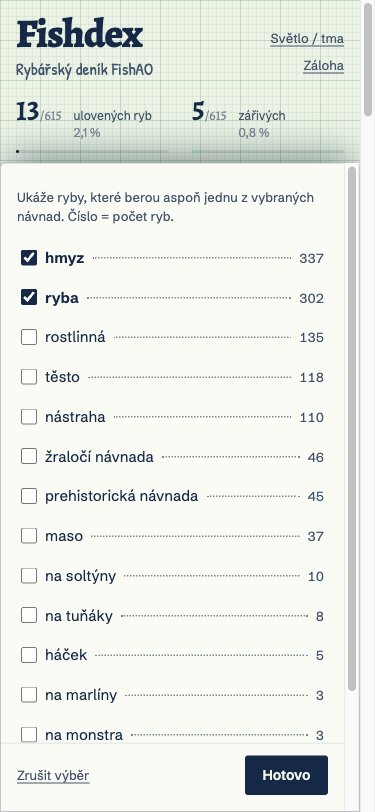
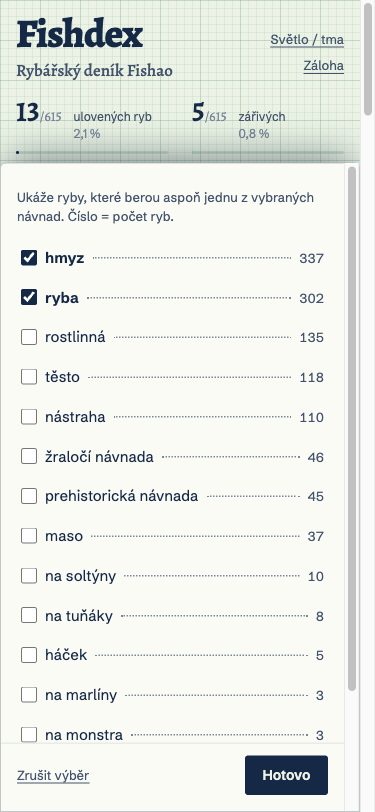
Prototype A: drop handwritten font, Alegreya italic for notes
Font pairing settled: Alegreya + Schibsted Grotesk. Removes alternate
pairings and their screenshots; refreshes the screenshot set.

diff --git a/prototypes/a-denik/style.css b/prototypes/a-denik/style.css
@@ -24,10 +24,8 @@
 
   --s1: 4px; --s2: 8px; --s3: 12px; --s4: 16px; --s5: 24px; --s6: 32px; --s7: 48px; --s8: 64px; --s9: 96px;
   --text: "Schibsted Grotesk", "Avenir Next", "Segoe UI", sans-serif;
-  /* font pairing 1 (default): Alegreya + Patrick Hand */
   --display: "Alegreya", "Iowan Old Style", Georgia, serif;
-  --title-w: 800; --name-w: 700; --name-scale: 1;
-  --hand: "Patrick Hand", "Bradley Hand", cursive; --hand-scale: 1.05;
+  --title-w: 800; --name-w: 700;
 }
 @media (prefers-color-scheme: dark) {
   :root:not([data-theme="light"]) {
@@ -148,7 +146,7 @@ button { cursor: pointer; }
 .index { grid-area: index; align-self: start; }
 .index-title { margin: 0 0 var(--s3); font: 500 22px/1 var(--display); font-style: italic; }
 .areas { list-style: none; margin: 0; padding: 0; }
-.areas .kind { margin: var(--s4) 0 var(--s1); font: 400 calc(16px * var(--hand-scale))/1 var(--hand); color: var(--ink-faint); }
+.areas .kind { margin: var(--s4) 0 var(--s1); font: italic 400 16px/1 var(--display); color: var(--ink-faint); }
 .areas button {
   display: grid; grid-template-columns: 1fr auto; align-items: baseline; width: 100%;
   padding: 5px var(--s2) 6px; border: 0; background: none; text-align: left; border-radius: 3px;
@@ -166,7 +164,7 @@ button { cursor: pointer; }
 .hint {
   display: flex; flex-wrap: wrap; align-items: center; gap: var(--s2) var(--s5);
   max-width: 640px; margin: 0 0 var(--s5); padding: var(--s3) var(--s4);
-  font: 400 calc(16px * var(--hand-scale))/1.35 var(--hand); color: var(--ink);
+  font: italic 400 16px/1.35 var(--display); color: var(--ink);
   background: var(--slip);
   border-left: 3px solid var(--stamp);
   transform: rotate(-0.6deg);
@@ -191,7 +189,7 @@ button { cursor: pointer; }
 .search input::placeholder { color: var(--ink-faint); font-style: italic; }
 .search:focus-within { border-color: var(--focus); }
 .filter-row { display: flex; flex-wrap: wrap; align-items: center; gap: var(--s2); }
-.filter-label { font: 400 calc(16px * var(--hand-scale))/1 var(--hand); color: var(--ink-soft); min-width: 64px; }
+.filter-label { font: italic 400 16px/1 var(--display); color: var(--ink-soft); min-width: 64px; }
 .chip {
   border: 1.5px solid var(--ink-faint); background: transparent; color: var(--ink);
   border-radius: 999px; padding: 3px var(--s3); font-size: 14px; line-height: 1.3;
@@ -273,14 +271,14 @@ select {
 }
 
 .card-name {
-  margin: 0; font: var(--name-w) calc(18px * var(--name-scale))/1.12 var(--display);
+  margin: 0; font: var(--name-w) 18px/1.12 var(--display);
   text-wrap: balance; overflow-wrap: anywhere;
 }
 .card-en { margin: 2px 0 var(--s2); font-size: 13px; color: var(--ink-soft); overflow-wrap: anywhere; }
 .card-meta { display: flex; justify-content: space-between; gap: var(--s2); margin: 0; font-size: 13px; font-variant-numeric: tabular-nums; }
 .len { color: var(--ink-soft); white-space: nowrap; }
 .card-where { margin: 2px 0 0; font-size: 13px; color: var(--ink-soft); }
-.note { font: 400 calc(15px * var(--hand-scale))/1 var(--hand); color: var(--ink-soft); }
+.note { font: italic 400 15px/1 var(--display); color: var(--ink-soft); }
 .more { font-size: 12px; color: var(--ink-faint); }
 
 .stamp {
@@ -316,7 +314,7 @@ select {
 .card-open {
   position: absolute; right: var(--s2); bottom: var(--s2); z-index: 2;
   border: 0; background: none; padding: var(--s1) var(--s2);
-  font: 400 calc(16px * var(--hand-scale))/1 var(--hand); color: var(--ink-soft);
+  font: italic 400 16px/1 var(--display); color: var(--ink-soft);
   text-decoration: underline; text-decoration-style: wavy; text-decoration-thickness: 1px; text-underline-offset: 4px;
 }
 .card-open:hover { color: var(--ink); }
@@ -348,7 +346,7 @@ select {
 .sheet-rarity .stars { font-size: 16px; }
 .sheet h2 {
   margin: 0; padding-right: var(--s7);
-  font: var(--name-w) calc(38px * var(--name-scale))/1.02 var(--display);
+  font: var(--name-w) 38px/1.02 var(--display);
   text-wrap: balance;
 }
 .sheet-en { margin: var(--s2) 0 0; color: var(--ink-soft); font-size: 16px; }
@@ -377,7 +375,7 @@ select {
 .toggle[aria-pressed="true"] .box::after { content: "✓"; font-size: 14px; line-height: 1; }
 .toggle.glow[aria-pressed="true"] { background: var(--night); color: var(--glow); border-color: var(--night); box-shadow: inset 0 0 0 1px var(--glow-soft), 0 0 10px -2px var(--glow-soft); }
 .facts { display: grid; grid-template-columns: 96px 1fr; gap: var(--s3) var(--s4); margin: 0; border-top: 1px solid color-mix(in oklch, var(--ink) 20%, transparent); padding-top: var(--s4); }
-.facts dt { font: 400 calc(17px * var(--hand-scale))/1.25 var(--hand); color: var(--ink-soft); }
+.facts dt { font: italic 400 17px/1.25 var(--display); color: var(--ink-soft); }
 .facts dd { margin: 0; font-size: 15px; }
 .facts .unknown { color: var(--ink-faint); font-style: italic; }
 .untranslated { font-style: italic; }
@@ -461,7 +459,7 @@ select {
 .states-wrap { margin-top: var(--s8); padding-top: var(--s5); border-top: 2px solid var(--ink); }
 .states { display: grid; grid-template-columns: repeat(auto-fill, minmax(176px, 1fr)); gap: var(--s5) var(--s4); }
 .state { margin: 0; display: grid; grid-template-rows: auto 1fr; gap: var(--s3); }
-.state figcaption { font: 400 calc(16px * var(--hand-scale))/1 var(--hand); color: var(--ink-soft); }
+.state figcaption { font: italic 400 16px/1 var(--display); color: var(--ink-soft); }
 .card.is-hover { border-color: var(--ink); }
 .card.is-focus .card-hit { outline: 2.5px solid var(--focus); outline-offset: 3px; }
 .card.is-pressing .card-glow { animation: charge .5s linear forwards; }
@@ -479,18 +477,7 @@ select {
 :root[data-theme="dark"] .card[data-caught="false"] .card-art img { mix-blend-mode: normal; filter: grayscale(0.7) brightness(1.1); opacity: 0.42; }
 @media (prefers-color-scheme: dark) { :root:not([data-theme="light"]) .card[data-caught="false"] .card-art img { mix-blend-mode: normal; filter: grayscale(0.7) brightness(1.1); opacity: 0.42; } }
 
-/* ---------- font pairings (?font=2 / ?font=3) ---------- */
 html { font-synthesis-weight: none; }
-:root[data-font="2"] {
-  --display: "Instrument Serif", Georgia, serif;
-  --title-w: 400; --name-w: 400; --name-scale: 1.18;
-  --hand: "Caveat", cursive; --hand-scale: 1.22;
-}
-:root[data-font="3"] {
-  --display: "Young Serif", Georgia, serif;
-  --title-w: 400; --name-w: 400; --name-scale: 0.94;
-  --hand: "Shantell Sans", cursive; --hand-scale: 0.86;
-}
 
 /* ---------- bait picker ---------- */
 .filter-row--bait { position: relative; }
@@ -539,7 +526,7 @@ html { font-synthesis-weight: none; }
 .card-bred:hover { color: var(--ink); border-color: var(--ink-faint); }
 .card-bred[aria-pressed="true"] { background: var(--ink); color: var(--paper); border-color: var(--ink); }
 .card-bred[aria-pressed="true"] .pond { opacity: 1; }
-.bred-note { margin: var(--s1) 0 0; font: 400 calc(15px * var(--hand-scale))/1.1 var(--hand); color: var(--ink); }
+.bred-note { margin: var(--s1) 0 0; font: italic 400 15px/1.1 var(--display); color: var(--ink); }
 .bred-note::before { content: "✓ "; }
 .toggle.bred { grid-column: 1 / -1; }
 .area-bred { grid-column: 1 / -1; margin-top: 3px; font-size: 12px; color: var(--ink-soft); }

diff --git a/prototypes/a-denik/index.html b/prototypes/a-denik/index.html
@@ -6,7 +6,7 @@
 <title>Fishdex · prototyp A, terénní deník</title>
 <link rel="preconnect" href="https://fonts.googleapis.com">
 <link rel="preconnect" href="https://fonts.gstatic.com" crossorigin>
-<link href="https://fonts.googleapis.com/css2?family=Alegreya:ital,wght@0,400..900;1,400..900&family=Patrick+Hand&family=Instrument+Serif:ital@0;1&family=Caveat:wght@400..700&family=Young+Serif&family=Shantell+Sans:wght@300..800&family=Schibsted+Grotesk:wght@400..800&display=swap" rel="stylesheet">
+<link href="https://fonts.googleapis.com/css2?family=Alegreya:ital,wght@0,400..900;1,400..900&family=Schibsted+Grotesk:wght@400..800&display=swap" rel="stylesheet">
 <link rel="stylesheet" href="style.css">
 </head>
 <body>

diff --git a/prototypes/a-denik/app.js b/prototypes/a-denik/app.js
@@ -145,9 +145,6 @@ function onFilters(filters) {
   if (area.value !== filters.area) area.value = filters.area;
 }
 
-const font = new URLSearchParams(location.search).get('font');
-if (font) document.documentElement.dataset.font = font;
-
 createApp({
   renderCard, renderEmpty, renderDetail, renderProgress, setup, onFilters,
   countLabel: (n, total) => n === total ? `${n} ryb` : `${n} z ${total}`,

diff --git a/prototypes/DECISIONS.md b/prototypes/DECISIONS.md
@@ -19,12 +19,9 @@ Varianta B (`prototypes/b-kabinet/`) je jen archiv, dál se neudržuje.
 - **Obsah deníku začíná položkou „Všechny oblasti“** (výchozí, celkový progres X/615),
   pod ní oblasti, turnaje a Backyard. Na mobilu je to první volba selectu oblastí.
 - **Podtitul** „Rybářský deník Fishao“ je ve fontu názvů ryb (ne ručně psaný).
-- **Fonty:** Fraunces a Kalam se mění. Kandidáti (přepínač `?font=1|2|3`):
-  1. Alegreya + Patrick Hand (výchozí)
-  2. Instrument Serif + Caveat
-  3. Young Serif + Shantell Sans
-
-  Data dál ve Schibsted Grotesk. **Čeká na výběr uživatele.**
+- **Fonty (schváleno):** Alegreya na nadpisy, jména ryb a poznámky (poznámky,
+  popisky filtrů a „Zápis“ kurzívou), Schibsted Grotesk na data. Žádné ručně psané
+  písmo. Hlavní nadpis zůstává „Fishdex“.
 
 ## Rozhodnutí, která uživatel nezadal (k potvrzení)
 

diff --git a/CLAUDE.md b/CLAUDE.md
@@ -100,8 +100,8 @@ Papírová textura nebo hluboká voda, ručně působící typografie, ryby jako
 exponáty. Zářivé varianty = bioluminiscence (jemná záře, ne neon).
 
 Tokeny (výchozí návrh, doladit podle obrázků ryb):
-- Fonty: display serif (např. Fraunces nebo Instrument Serif) + čitelný
-  grotesk pro data (např. General Sans z Fontshare). NIKDY Inter, Roboto, Arial.
+- Fonty (schváleno): **Alegreya** (nadpisy, jména ryb, poznámky kurzívou)
+  + **Schibsted Grotesk** (data). Žádné ručně psané písmo. NIKDY Inter, Roboto, Arial.
 - Barvy definuj jako CSS custom properties v OKLCH na `:root`, s dark mode.
 - Rarity mají vlastní barvy, ale nespoléhej jen na barvu — i ikona/text.
 - Spacing škála: 4 / 8 / 12 / 16 / 24 / 32 / 48 / 64 / 96.
